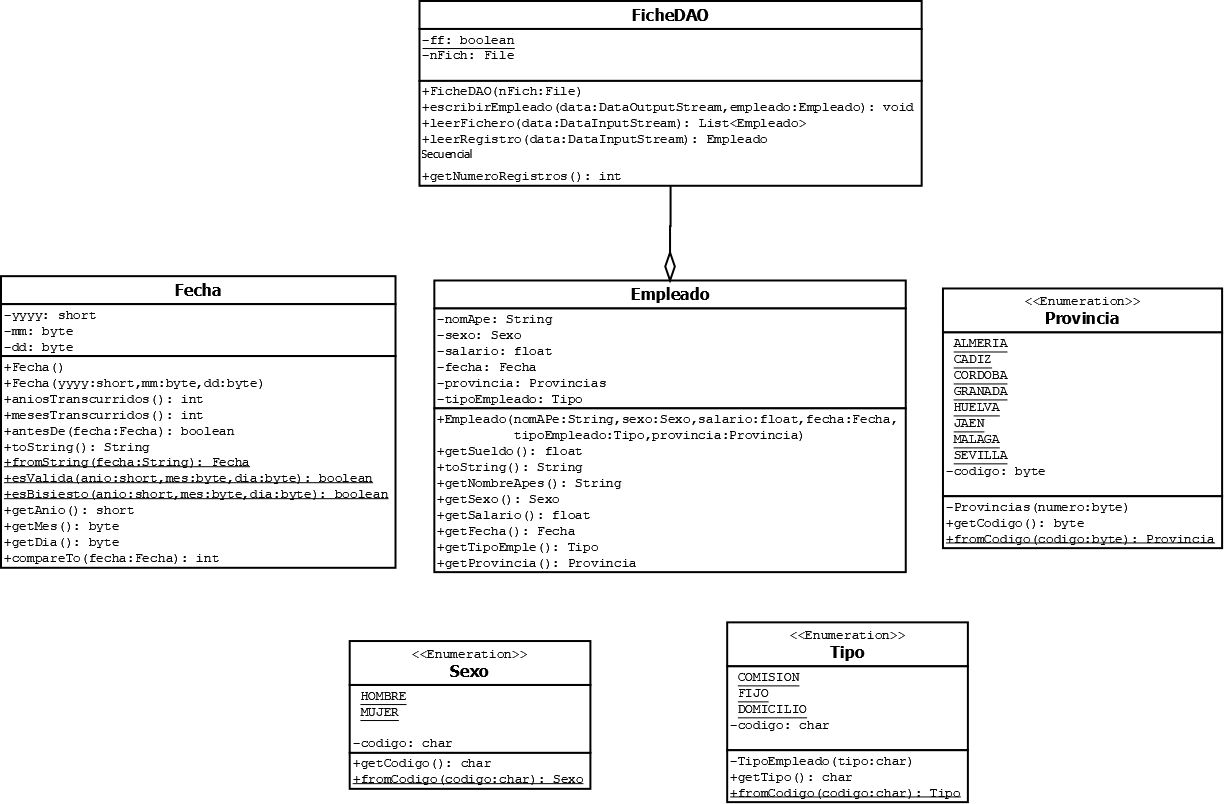
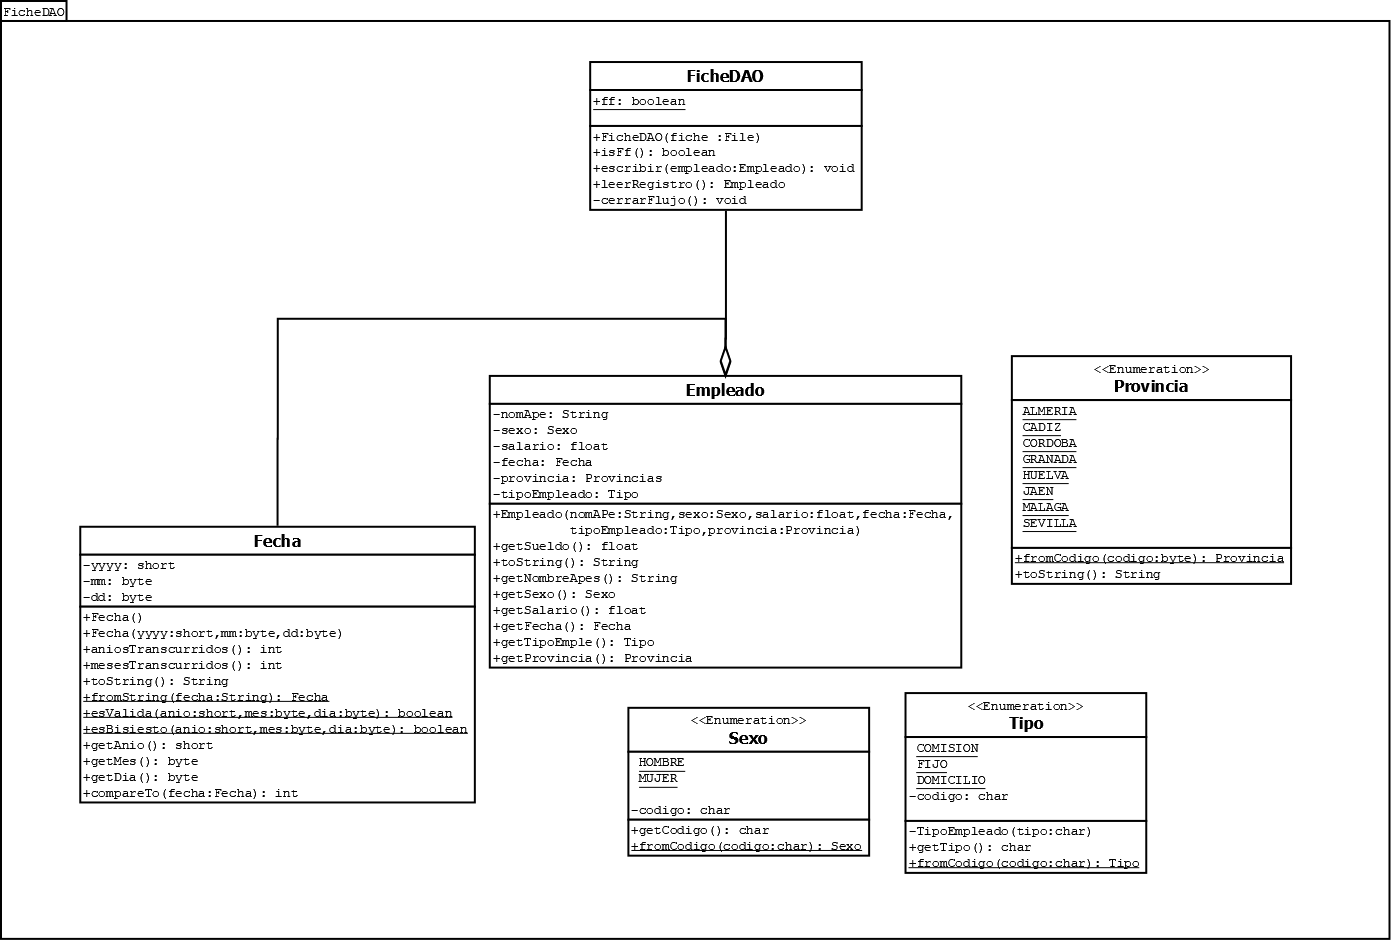
Retoques en FicheDAO porque sobran metodos. Arreglo los main

Changed region(s): [[0.0, 0.0, 1.0, 1.0], [0.3415, 0.0, 0.7761, 0.2488], [0.0, 0.0, 0.0621, 0.0311]]

diff --git a/Grupo11/src/FicheDAO/FicheDAO.java b/Grupo11/src/FicheDAO/FicheDAO.java
@@ -1,3 +1,4 @@
+package FicheDAO;
 
 import java.io.DataInputStream;
 import java.io.DataOutputStream;
@@ -32,35 +33,8 @@ public class FicheDAO {
                 // Ignorar error al cerrar
             }
             flujoLectura = null;
-            ff = false;
+
         }
-    }
-
-    public List<Empleado> leerFichero() {
-        List<Empleado> lista = new LinkedList<>();
-
-        // Limpieza inicial
-        cerrarFlujo();
-
-        try {
-            boolean fin = false;
-            while (!fin) {
-                Empleado emple = leerRegistro();
-
-                if (emple != null) {
-                    lista.add(emple);
-                } else {
-                    fin = true;
-                }
-            }
-        } catch (IOException e) {
-            System.out.println("Error al leer fichero completo: " + e.getMessage());
-        } finally {
-            // Aseguramos que se cierra al terminar de leer todo el fichero
-            cerrarFlujo();
-        }
-
-        return lista;
     }
 
     public Empleado leerRegistro() throws IOException {
@@ -103,7 +77,7 @@ public class FicheDAO {
                     salario, fechaIngreso, tipoEmpleFromChar, provincia);
 
         } catch (EOFException eofe) {
-
+            FicheDAO.ff = true;
             cerrarFlujo();
 
         }
@@ -116,7 +90,7 @@ public class FicheDAO {
         DataOutputStream data = null;
         try {
             data = new DataOutputStream(new FileOutputStream(fiche, true));
-            
+
             data.writeUTF(reg.getNomApe());
             data.writeChar(reg.getSexo().getCodigo());
             data.writeFloat(reg.getSalario());
@@ -124,7 +98,7 @@ public class FicheDAO {
             data.writeByte(reg.getFechaIngreso().getMes());
             data.writeByte(reg.getFechaIngreso().getDia());
             data.writeChar(reg.getTipo().getCodigo());
-            data.writeByte(reg.getProvincia().getCodigo());
+            data.writeByte(reg.getProvincia().ordinal() + 1);//Ordinal mas 1 para que empieze en 1 si es la provincia 0
 
         } catch (IOException ioe) {
             System.out.println("Error de E/S al escribir empleado en fichero: " + ioe.getMessage());
@@ -137,38 +111,5 @@ public class FicheDAO {
                 }
             }
         }
-    }
-
-    public int getNumeroRegistros() {
-        int numRegistros = 0;
-        boolean finFichero = false;
-
-        cerrarFlujo();
-
-        try (DataInputStream data = new DataInputStream(
-                new java.io.FileInputStream(fiche))) {
-
-            while (!finFichero) {
-                try {
-                    // Intentar leer un registro completo
-                    data.readUTF();              // nombre
-                    data.readChar();             // sexo
-                    data.readFloat();            // salario
-                    data.readShort();            // año
-                    data.readByte();             // mes
-                    data.readByte();             // día
-                    data.readChar();             // tipo
-                    data.readByte();             // provincia
-
-                    numRegistros++;
-                } catch (EOFException eofe) {
-                    finFichero = true;
-                }
-            }
-        } catch (IOException ioe) {
-            System.out.println("Error al contar registros: " + ioe.getMessage());
-        }
-
-        return numRegistros;
     }
 }

diff --git a/Grupo11/src/EscribeEmpleados.java b/Grupo11/src/EscribeEmpleados.java
@@ -1,4 +1,5 @@
 
+import FicheDAO.FicheDAO;
 import java.io.BufferedReader;
 import java.io.IOException;
 import java.io.InputStreamReader;
@@ -78,7 +79,7 @@ public class EscribeEmpleados {
                 valido = true;
                 System.out.print("Introduce el número de una provincia: ");
                 for (Provincia prov : Provincia.values()) {
-                    System.out.println(prov.ordinal() + 1 + "-" + Provincia.fromCodigo(prov.ordinal() + 1));
+                    System.out.println(prov.ordinal() + 1 + "-" + Provincia.fromCodigo((byte) (prov.ordinal() + 1)));
                 }
                 try {
                     entrada = teclado.readLine();
@@ -130,7 +131,7 @@ public class EscribeEmpleados {
             teclado = new BufferedReader(new InputStreamReader(System.in));
             fos = new FileOutputStream(fichero);
             dos = new DataOutputStream(fos);
-            fdao = new FicheDAO();
+            fdao = new FicheDAO(fichero);
 
             System.out.println("=== ESCRITURA DE EMPLEADOS ===\n");
 
@@ -138,7 +139,7 @@ public class EscribeEmpleados {
                 emple = pedirDatos();
 
                 if (emple != null) {
-                    fdao.escribir(dos, emple);
+                    fdao.escribir(emple);
                     System.out.println("Empleado guardado correctamente.\n");
                 }
 

diff --git a/Grupo11/src/ListarProvinciasConMasEmpleados.java b/Grupo11/src/ListarProvinciasConMasEmpleados.java
@@ -1,6 +1,7 @@
 
 
 
+import FicheDAO.FicheDAO;
 import java.io.DataInputStream;
 import java.io.File;
 import java.io.FileInputStream;
@@ -21,15 +22,15 @@ public class ListarProvinciasConMasEmpleados {
     public static void main(String[] args) {
         List<Empleado> listaEmple;
         File fiche = new File("fiche.dat");
-        FicheDAO fdao = new FicheDAO();
+        FicheDAO fdao = new FicheDAO(fiche);
         Map<Provincia, Integer> conteoProvincias = new HashMap<>();
         try {
             FileInputStream fis = new FileInputStream(fiche);
             DataInputStream dis = new DataInputStream(fis);
             listaEmple = new LinkedList<>();
             Empleado emple;
-            while (FicheDAO.isFf() == false) {
-                emple = fdao.leerRegistro(dis);
+            while (FicheDAO.ff == false) {
+                emple = fdao.leerRegistro();
                 if (emple != null) {
                     listaEmple.add(emple);
                 }

diff --git a/Grupo11/src/Listado10oMasAnios.java b/Grupo11/src/Listado10oMasAnios.java
@@ -1,4 +1,5 @@
 
+import FicheDAO.FicheDAO;
 import java.io.BufferedReader;
 import java.io.DataInputStream;
 import java.io.File;
@@ -30,17 +31,17 @@ public class Listado10oMasAnios {
         float porcentaje;
 
         try {
-            fdao = new FicheDAO();
+            fdao = new FicheDAO(fiche);
             fis = new FileInputStream(fiche);
             dis = new DataInputStream(fis);
 
-            //  System.out.println("numero de empleados" + fdao.getNumeroRegistros(dis));
+            
             System.out.println("Leyendo empleados...\n");
             //Leer empleados
             listadoEmple = new LinkedList<>();
             Empleado emple;
-            while (!FicheDAO.isFf()) {
-                emple = fdao.leerRegistro(dis);
+            while (!FicheDAO.ff) {
+                emple = fdao.leerRegistro();
                 if (emple != null) {
                     listadoEmple.add(emple);
                 }

diff --git a/Grupo11/src/ScriptPruebaEscribirEmple.java b/Grupo11/src/ScriptPruebaEscribirEmple.java
@@ -1,12 +1,12 @@
 
-
-
+import FicheDAO.FicheDAO;
 import java.io.DataOutputStream;
 import java.io.File;
 import java.io.FileNotFoundException;
 import java.io.FileOutputStream;
 import java.io.IOException;
 import FicheDAO.*;
+
 /**
  *
  * @author Mejias Gonzalez Francisco
@@ -15,7 +15,7 @@ public class ScriptPruebaEscribirEmple {
 
     public static void main(String[] args) {
         File fiche = new File("fiche.dat");
-        FicheDAO fdao = new FicheDAO();
+        FicheDAO fdao = new FicheDAO(fiche);
         try {
             FileOutputStream fos = new FileOutputStream(fiche);
             DataOutputStream dos = new DataOutputStream(fos);
@@ -51,7 +51,7 @@ public class ScriptPruebaEscribirEmple {
 
             // Escribir empleados en el fichero
             for (Empleado emp : empleados) {
-                fdao.escribir(dos, emp);
+                fdao.escribir(emp);
             }
 
             dos.close();

diff --git a/Grupo11/src/ListadoNombreYSueldo.java b/Grupo11/src/ListadoNombreYSueldo.java
@@ -1,4 +1,5 @@
 
+import FicheDAO.FicheDAO;
 import java.io.DataInputStream;
 import java.io.File;
 import java.io.FileInputStream;
@@ -23,7 +24,7 @@ public class ListadoNombreYSueldo {
     public static void main(String[] args) {
         List<Empleado> listaEmple;
         File fiche = new File("fiche.dat");
-        FicheDAO fdao = new FicheDAO();
+        FicheDAO fdao = new FicheDAO(fiche);
         float maxSueldo;
 
         try {
@@ -32,8 +33,8 @@ public class ListadoNombreYSueldo {
             listaEmple = new LinkedList<>();
             Empleado emple;
 
-            while (!FicheDAO.isFf()) {
-                emple = fdao.leerRegistro(dis);
+            while (!FicheDAO.ff) {
+                emple = fdao.leerRegistro();
                 if (emple != null) {
                     listaEmple.add(emple);
                 }
